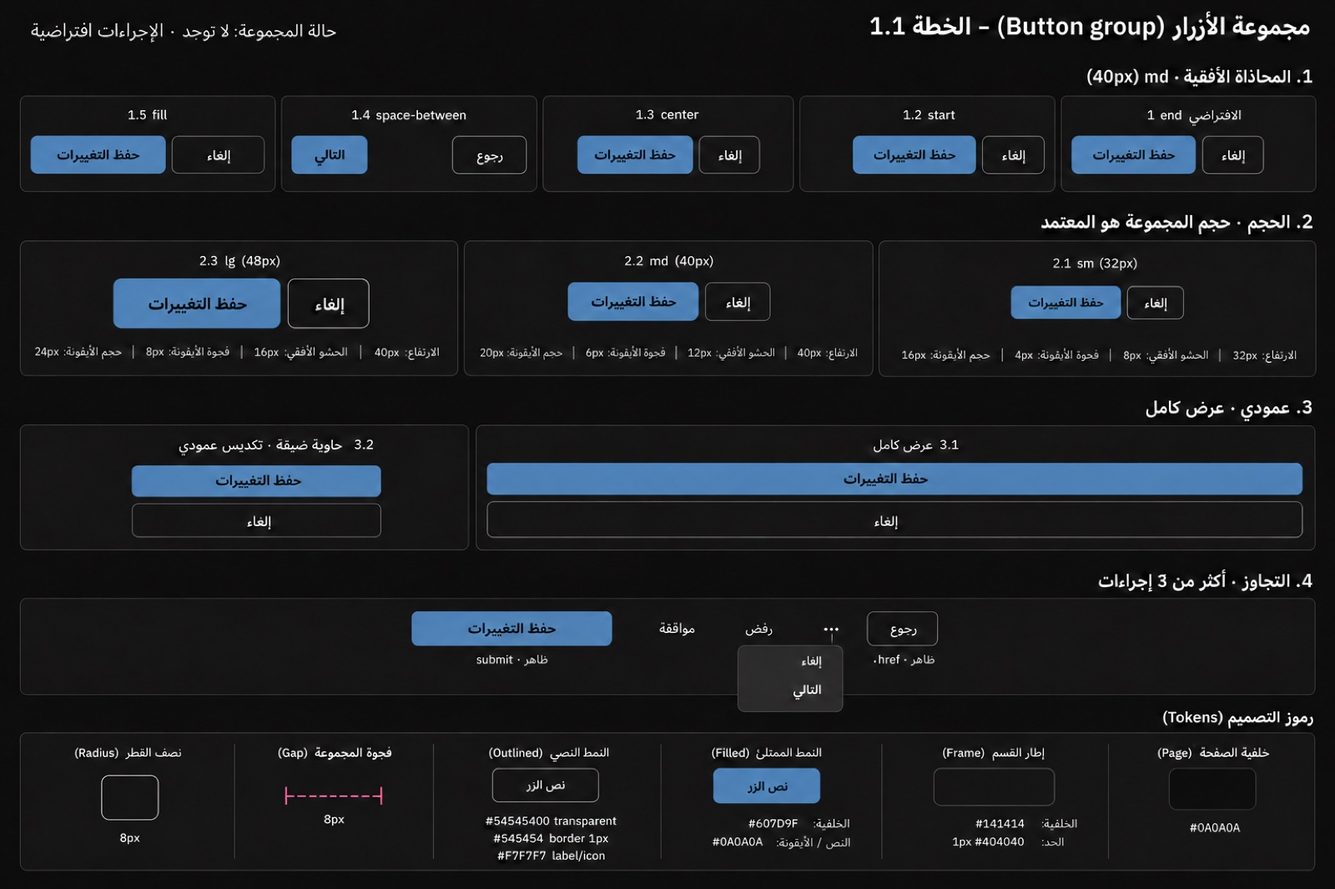
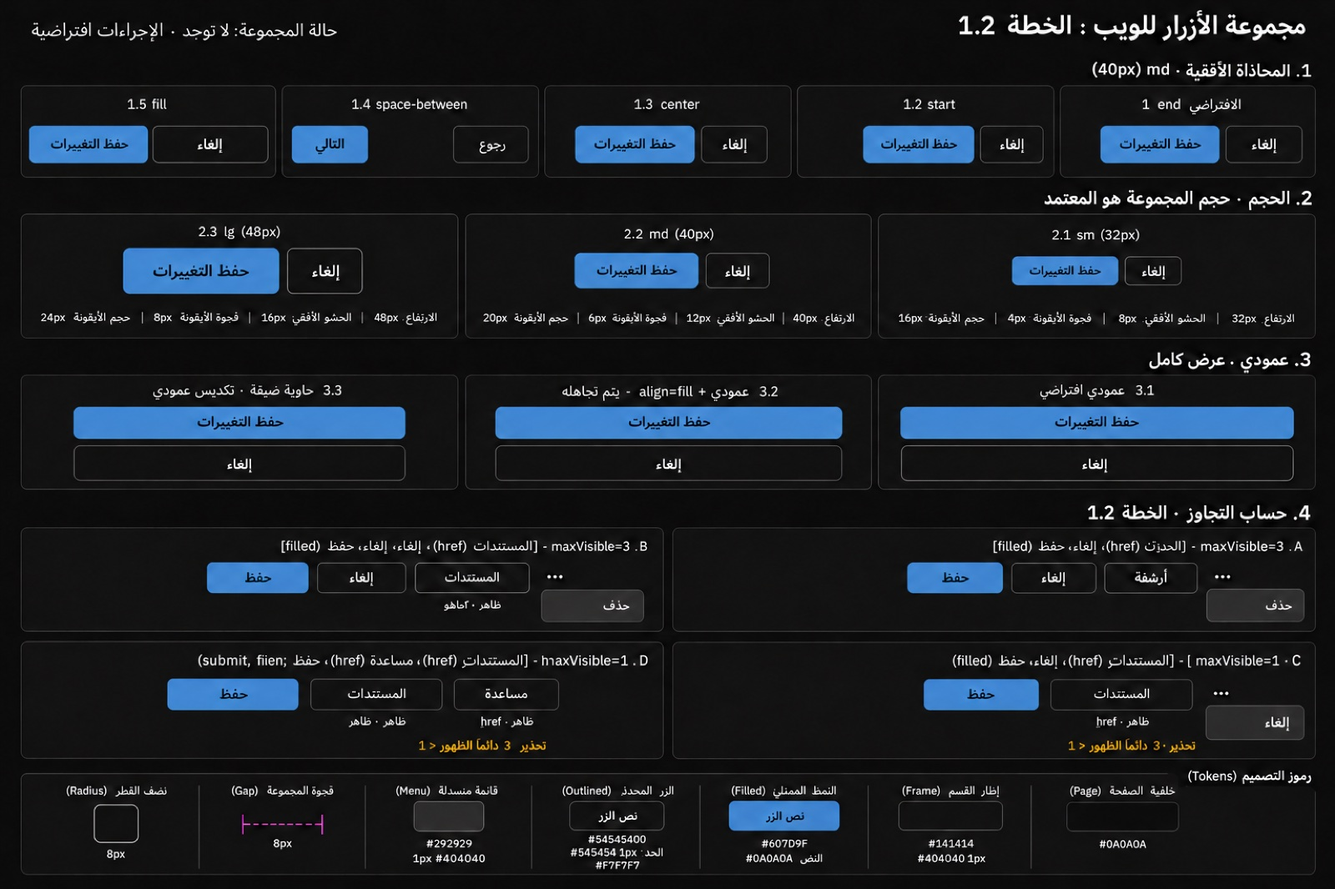
preview(button-group/web): plan 1.2 sheets — overflow counting, vertical fill ignored [codex]

diff --git a/biowave-ds/3-web-components/components/button-group/previews/README.md b/biowave-ds/3-web-components/components/button-group/previews/README.md
@@ -1,6 +1,6 @@
 # Button group preview
 
-These images are plan-check sketches for Button group 1.1. The component plan remains the source of truth. Button group adds layout only; every visible action uses Button or Icon button tokens.
+These images are plan-check sketches for Button group 1.2. The component plan remains the source of truth. Button group adds layout only; every visible action uses Button or Icon button tokens.
 
 ## Token sheet
 
@@ -42,19 +42,22 @@ These images are plan-check sketches for Button group 1.1. The component plan re
 ```text
 Use case: ui-mockup
 Asset type: flat web design-system specification sheet
-Primary request: Draw the Web Button group plan 1.1 as a precise plan-check sheet in light theme and English. Canvas is 1536 × 1024 px, no wider than 1600 px, with page background #F7F7F7. Use a clean grid with one column labelled “Group state: none · actions shown default”. Every specimen sits inside its own clearly visible full-width parent frame: #FFFFFF fill, 1px #DBDBDB outline, 8px radius. The invisible Button group container spans 100% of that frame so alignment is obvious.
+Input image: the existing light/English Button group 1.1 sheet is the visual starting point; redraw it as plan 1.2 rather than merely relabelling it.
+Primary request: Draw the Web Button group plan 1.2 as a precise plan-check sheet in light theme and English. Canvas is 1536 × 1024 px, no wider than 1600 px, with page background #F7F7F7. Use a compact, crisp grid headed “Web Button group plan 1.2” and “Group state: none · actions shown default”. Every specimen sits inside its own wide, clearly visible parent frame with #FFFFFF fill, 1px #DBDBDB outline, and 8px radius. The invisible Button group container spans 100% of each parent frame. The group has no state columns of its own.
 
-Typography: Inter with fallbacks system-ui, -apple-system, Segoe UI, Roboto, sans-serif; action weight 500 and letter-spacing 0px. sm labels are 13px/18px, md 14px/20px, lg 16px/24px. Captions use the same family and only these sizes.
+Typography and Button styling: Inter with fallbacks system-ui, -apple-system, Segoe UI, Roboto, sans-serif; action weight 500; letter-spacing 0px. sm labels are 13px/18px, md 14px/20px, lg 16px/24px. Captions use the same family and these sizes. All Buttons have 8px radius and 1px borders. Filled brand Buttons are #193351 with #FFFFFF labels/icons. Outlined neutral Buttons use transparent #54545400, 1px #BDBDBD border, and #0A0A0A labels/icons. Text neutral and the overflow Icon button use transparent #54545400 with #0A0A0A label/icon and no border. Button group gap is exactly 8px in both orientations. Open menus are #FFFFFF with 1px #DBDBDB outline, 8px radius, and no shadow.
 
-Global Button geometry: 8px radius and 1px borders. Filled brand buttons use #193351 with #FFFFFF labels/icons. Outlined neutral buttons use transparent #54545400, 1px #BDBDBD border, #0A0A0A labels/icons. Text neutral and the overflow Icon button use transparent #54545400 with #0A0A0A label/icon and no border. Button group gap is exactly 8px in every orientation.
+Lay out these four numbered sections in this exact order:
+1. “Horizontal align · md (40px)”. Use five wide parent frames whose left and right edges are unmistakable. “end · default” places outlined “Cancel” then filled “Save changes” at the far right inline end. “start” places the same pair at the far left. “center” centers the pair. These three must look clearly different because the unused space and frame edges remain visible. “space-between” places outlined “Back” at the far left and filled “Next” at the far right. “fill” has outlined “Cancel” and filled “Save changes” spanning the full row in two exactly equal-width halves. All are 40px high, 12px inline padding, 6px internal icon gap if used, and 20px icons.
+2. “Size · group wins”. Three parent frames show outlined “Cancel” then filled “Save changes”: sm = 32px high, 8px inline padding, 4px internal gap, 16px icon; md = 40px high, 12px inline padding, 6px internal gap, 20px icon; lg = 48px high, 16px inline padding, 8px internal gap, 24px icon. Print these exact values beside each specimen.
+3. “Vertical · full width”. Show three narrow parent frames. “default vertical” has filled “Save changes” on top and outlined “Cancel” below, each full width at normal md height 40px with an 8px vertical gap. “vertical + align=fill · ignored” must look exactly identical to default vertical: same full-width Buttons, same normal 40px height, no stretching and no equal-height column fill. “narrow parent · stacks vertically” shows the same two full-width Buttons and 8px gap; never draw partial wrapping on one line.
+4. “Overflow counting · plan 1.2”. Draw every row from the B1 examples table as its own wide specimen with its exact caption and an open menu where specified. The neutral borderless more_horiz trigger is first at the inline start and does not consume a visible slot.
+   a. Caption “maxVisible=3 · [Delete, Archive, Cancel, Save (filled)]”. Visible, in reading order: “Archive”, “Cancel”, “Save”. Put “Delete” alone in the open menu. Show the trigger.
+   b. Caption “maxVisible=3 · [Docs (href), Delete, Cancel, Save (filled)]”. Visible: outlined link action “Docs”, “Cancel”, filled “Save”. Put “Delete” alone in the open menu. Show the trigger. Mark Docs “href · visible”. Never show four visible actions.
+   c. Caption “maxVisible=1 · [Docs (href), Cancel, Save (filled)]”. Visible: “Docs” and filled “Save” only because both are always-visible. Put “Cancel” alone in the open menu. Show the trigger and a compact “warning · 2 always-visible > 1” note. Never show Cancel as a visible Button.
+   d. Caption “maxVisible=1 · [Docs (href), Help (href), Save (submit, filled)]”. Show all three Buttons “Docs”, “Help”, and filled “Save”; show no overflow trigger and no menu because every child is always-visible. Add “warning · 3 always-visible > 1”.
 
-Rows, in this exact order:
-1. “Horizontal align · md (40px)” with five separate parent frames: “end · default” has outlined “Cancel” then filled “Save changes” at the right inline end and doubles as the dialog-footer example; “start” has the same pair at the left; “center” has the same pair centered; “space-between” has outlined “Back” at the far left and filled “Next” at the far right; “fill” has outlined “Cancel” and filled “Save changes” sharing the full width equally. All md actions are 40px high with 12px inline padding, 6px internal icon gap if an icon exists, and 20px icons.
-2. “Size · group wins” with three parent frames and the same outlined “Cancel” then filled “Save changes”: sm = 32px high, 8px inline padding, 4px internal gap, 16px icon; md = 40px, 12px, 6px, 20px; lg = 48px, 16px, 8px, 24px. Put the exact size values in small callouts beside each row.
-3. “Vertical · full width” with one narrow parent frame: filled “Save changes” on top and outlined “Cancel” below, each full width, exact 8px vertical gap. Beside it show “Narrow parent · stacks vertically” with the same two actions full width to communicate the planned horizontal-to-vertical responsive stack; do not draw partial wrapping on one line.
-4. “Overflow · more than 3 actions” in a wide parent frame. Keep an outlined link action “Back” visible at the start and a filled submit action “Save changes” visible at the end. Place the borderless neutral more_horiz Icon button first at the start of the ordinary actions, then two visible ordinary text actions “Reject” and “Approve”; show an open overflow menu anchored to more_horiz containing the remaining actions “Cancel” and “Next”. Menu is #FFFFFF with 1px #DBDBDB outline and 8px radius, no shadow. Label the link and submit actions “href · visible” and “submit · visible”.
-
-Add a compact token legend with swatches and measurement callouts adjacent to the styled parts: page #F7F7F7; frame #FFFFFF / #DBDBDB 1px; filled #193351 / #FFFFFF; outlined transparent / #BDBDBD 1px / #0A0A0A; group gap 8px; radius 8px. Use exact strings and values verbatim. Draw no group-level fill, border, or state. No shadows, gradients, glow, photos, device frames, logos, decorations, or invented interaction states.
+Add a compact token legend with swatches and measurement callouts adjacent to the styled parts: page #F7F7F7; frame #FFFFFF / #DBDBDB 1px; menu #FFFFFF / #DBDBDB 1px; filled #193351 / #FFFFFF; outlined transparent #54545400 / #BDBDBD 1px / #0A0A0A; group gap 8px; radius 8px. Use every quoted string and value verbatim. Draw no group-level fill, border, or state. No shadows, gradients, glow, photos, device frames, logos, decorations, watermarks, or invented interaction states.
 ```
 
 ## Prompt — `button-group-dark-ar.jpg`
@@ -62,28 +65,31 @@ Add a compact token legend with swatches and measurement callouts adjacent to th
 ```text
 Use case: ui-mockup
 Asset type: flat web design-system specification sheet
-Primary request: Draw the Web Button group plan 1.1 as a precise plan-check sheet in dark theme and Arabic. Canvas is 1536 × 1024 px, no wider than 1600 px, with page background #0A0A0A. Entire layout direction is right-to-left. Use a clean grid with one column labelled “حالة المجموعة: لا توجد · الإجراءات افتراضية”. Every specimen sits inside its own clearly visible full-width parent frame: #141414 fill, 1px #404040 outline, 8px radius. The invisible Button group container spans 100% of that frame so alignment is obvious.
+Input image: the existing dark/Arabic Button group 1.1 sheet is the visual starting point; redraw it as plan 1.2 rather than merely relabelling it.
+Primary request: Draw the Web Button group plan 1.2 as a precise plan-check sheet in dark theme and Arabic. Canvas is 1536 × 1024 px, no wider than 1600 px, with page background #0A0A0A. Mirror the entire layout right-to-left. Use a compact, crisp grid headed “مجموعة الأزرار للويب · الخطة 1.2” and “حالة المجموعة: لا توجد · الإجراءات افتراضية”. Every specimen sits inside its own wide, clearly visible parent frame with #141414 fill, 1px #404040 outline, and 8px radius. The invisible Button group container spans 100% of each parent frame. The group has no state columns of its own.
 
-Typography: IBM Plex Sans Arabic with fallbacks Noto Sans Arabic, Tahoma, sans-serif; action weight 500 and letter-spacing 0px. sm labels are 13px/20px, md 14px/22px, lg 16px/26px. Captions use the same family and only these sizes.
+Typography and Button styling: IBM Plex Sans Arabic with fallbacks Noto Sans Arabic, Tahoma, sans-serif; action weight 500; letter-spacing 0px. sm labels are 13px/20px, md 14px/22px, lg 16px/26px. Captions use the same family and these sizes. All Buttons have 8px radius and 1px borders. Filled brand Buttons are #607D9F with #0A0A0A labels/icons. Outlined neutral Buttons use transparent #54545400, 1px #545454 border, and #F7F7F7 labels/icons. Text neutral and the overflow Icon button use transparent #54545400 with #F7F7F7 label/icon and no border. Button group gap is exactly 8px in both orientations. Open menus are #292929 with 1px #404040 outline, 8px radius, and no shadow.
 
-Global Button geometry: 8px radius and 1px borders. Filled brand buttons use #607D9F with #0A0A0A labels/icons. Outlined neutral buttons use transparent #54545400, 1px #545454 border, #F7F7F7 labels/icons. Text neutral and the overflow Icon button use transparent #54545400 with #F7F7F7 label/icon and no border. Button group gap is exactly 8px in every orientation.
+Lay out these four numbered sections in this exact order, with connected Arabic text and right-to-left reading order:
+1. “المحاذاة الأفقية · md (40px)”. Use five wide parent frames whose left and right edges are unmistakable. “end · الافتراضي” places outlined “إلغاء” then filled “حفظ التغييرات” at the far left inline end. “start” places the pair at the far right. “center” centers it. These three must look clearly different because the unused space and frame edges remain visible. “space-between” places outlined “رجوع” at the far right and filled “التالي” at the far left. “fill” has outlined “إلغاء” and filled “حفظ التغييرات” spanning the full row in two exactly equal-width halves. All are 40px high, 12px inline padding, 6px internal icon gap if used, and 20px icons.
+2. “الحجم · حجم المجموعة هو المعتمد”. Three parent frames show outlined “إلغاء” then filled “حفظ التغييرات”: sm = 32px high, 8px inline padding, 4px internal gap, 16px icon; md = 40px high, 12px inline padding, 6px internal gap, 20px icon; lg = 48px high, 16px inline padding, 8px internal gap, 24px icon. Print these exact values beside each specimen.
+3. “عمودي · عرض كامل”. Show three narrow parent frames. “عمودي افتراضي” has filled “حفظ التغييرات” on top and outlined “إلغاء” below, each full width at normal md height 40px with an 8px vertical gap. “عمودي + align=fill · يتم تجاهله” must look exactly identical to default vertical: same full-width Buttons, same normal 40px height, no stretching and no equal-height column fill. “حاوية ضيقة · تكديس عمودي” shows the same two full-width Buttons and 8px gap; never draw partial wrapping on one line.
+4. “حساب التجاوز · الخطة 1.2”. Draw every row from the B1 examples table as its own wide specimen with its caption and an open menu where specified. The neutral borderless more_horiz trigger is first at the right inline start, never mirrors, and does not consume a visible slot.
+   a. Caption “maxVisible=3 · [حذف، أرشفة، إلغاء، حفظ (filled)]”. Visible, in RTL reading order: “أرشفة”، “إلغاء”، “حفظ”. Put “حذف” alone in the open menu. Show the trigger.
+   b. Caption “maxVisible=3 · [المستندات (href)، حذف، إلغاء، حفظ (filled)]”. Visible: outlined link action “المستندات”، “إلغاء”، filled “حفظ”. Put “حذف” alone in the open menu. Show the trigger. Mark Docs “href · ظاهر”. Never show four visible actions.
+   c. Caption “maxVisible=1 · [المستندات (href)، إلغاء، حفظ (filled)]”. Visible: “المستندات” and filled “حفظ” only because both are always-visible. Put “إلغاء” alone in the open menu. Show the trigger and a compact “تحذير · 2 دائمَا الظهور > 1” note. Never show Cancel as a visible Button.
+   d. Caption “maxVisible=1 · [المستندات (href)، مساعدة (href)، حفظ (submit, filled)]”. Show all three Buttons “المستندات”، “مساعدة”، and filled “حفظ”; show no overflow trigger and no menu because every child is always-visible. Add “تحذير · 3 دائمَا الظهور > 1”.
 
-Rows, in this exact order and mirrored right-to-left:
-1. “المحاذاة الأفقية · md (40px)” with five separate parent frames: “end · الافتراضي” places outlined “إلغاء” then filled “حفظ التغييرات” at the left inline end and doubles as the dialog-footer example; “start” places the same pair at the right; “center” centers the same pair; “space-between” places outlined “رجوع” at the far right and filled “التالي” at the far left; “fill” gives outlined “إلغاء” and filled “حفظ التغييرات” equal full-width shares. The primary is at the inline end, which is left in RTL. All md actions are 40px high with 12px inline padding, 6px internal icon gap if an icon exists, and 20px icons.
-2. “الحجم · حجم المجموعة هو المعتمد” with three parent frames and the same outlined “إلغاء” then filled “حفظ التغييرات”: sm = 32px high, 8px inline padding, 4px internal gap, 16px icon; md = 40px, 12px, 6px, 20px; lg = 48px, 16px, 8px, 24px. Put the exact size values in small callouts beside each row.
-3. “عمودي · عرض كامل” with one narrow parent frame: filled “حفظ التغييرات” on top and outlined “إلغاء” below, each full width, exact 8px vertical gap. Beside it show “حاوية ضيقة · تكديس عمودي” with the same two actions full width to communicate the planned horizontal-to-vertical responsive stack; do not draw partial wrapping on one line.
-4. “التجاوز · أكثر من 3 إجراءات” in a wide parent frame. Keep an outlined link action “رجوع” visible at the right start and a filled submit action “حفظ التغييرات” visible at the left end. Place the borderless neutral more_horiz Icon button first at the right start of the ordinary actions; the more_horiz glyph does not mirror. Then show two visible ordinary text actions “رفض” and “موافقة”; show an open overflow menu anchored to more_horiz containing the remaining actions “إلغاء” and “التالي”. Menu is #292929 with 1px #404040 outline and 8px radius, no shadow. Label the link and submit actions “href · ظاهر” and “submit · ظاهر”.
-
-Add a compact RTL token legend with swatches and measurement callouts adjacent to the styled parts: page #0A0A0A; frame #141414 / #404040 1px; filled #607D9F / #0A0A0A; outlined transparent / #545454 1px / #F7F7F7; group gap 8px; radius 8px. Use Arabic action strings exactly, connected letters, and right-aligned RTL text. Draw no group-level fill, border, or state. No shadows, gradients, glow, photos, device frames, logos, decorations, or invented interaction states.
+Add a compact RTL token legend with swatches and measurement callouts adjacent to the styled parts: page #0A0A0A; frame #141414 / #404040 1px; menu #292929 / #404040 1px; filled #607D9F / #0A0A0A; outlined transparent #54545400 / #545454 1px / #F7F7F7; group gap 8px; radius 8px. Use Arabic action strings exactly, connected letters, and right-aligned RTL text. Keep filled primary actions at inline end, which is left in RTL. Draw no group-level fill, border, or state. No shadows, gradients, glow, photos, device frames, logos, decorations, watermarks, or invented interaction states.
 ```
 
 ## Checks
 
 | Image | Result |
 |---|---|
-| `button-group-light-en.jpg` | ⚠ Correct light tokens, English strings, parent-width alignment specimens, sm/md/lg sizing, 8px gaps, vertical stack, `more_horiz`, visible `href` / submit actions, and open overflow menu. After two retries, the `fill` specimen's two children remain slightly unequal in rendered width; the plan requires equal `flex: 1 1 0` shares. |
-| `button-group-dark-ar.jpg` | ⚠ Correct dark tokens, connected Arabic strings, RTL mirroring (`end` left, `start` right), sm/md/lg sizing, 8px gaps, vertical stack, non-mirrored `more_horiz`, visible `href` / submit actions, and open overflow menu. After two retries, the `fill` specimen's two children remain slightly unequal in rendered width; the plan requires equal `flex: 1 1 0` shares. |
+| `button-group-light-en.jpg` | ⚠ Matches the light tokens, English strings, clearly separated `start` / `center` / `end`, sm/md/lg sizes, normal-height vertical and ignored vertical `align="fill"`, and all four overflow-counting outcomes without extra visible actions. After two retries, the horizontal `fill` pair spans its row but remains slightly unequal in rendered width; the plan requires exact equal shares. |
+| `button-group-dark-ar.jpg` | ⚠ Matches the dark tokens, connected Arabic action labels, RTL mirroring (`end` left, `start` right), non-mirrored `more_horiz`, sm/md/lg sizes, normal-height vertical and ignored vertical `align="fill"`, and the four overflow menu outcomes without extra visible actions. After two retries, the horizontal `fill` pair remains slightly unequal; mixed Arabic/English captions retain minor glyph/order artifacts, and the `maxVisible=1` Docs/Cancel/Save warning renders `3` instead of `2`. |
 
 ## Questions
 
-None. All token values resolved; the two ⚠ items above are image-rendering differences, not plan questions.
+None. All displayed token values resolved; the ⚠ items are generated-image differences, not plan questions.

diff --git a/biowave-ds/_workflow/runs/2026-10-21-button-group-web/07-preview-codex.prompt.md b/biowave-ds/_workflow/runs/2026-10-21-button-group-web/07-preview-codex.prompt.md
@@ -1,0 +1,29 @@
+# Preview step — button-group / web
+
+Project root: /Users/hassansaid/Downloads/Biowave Design System-button-group-web/biowave-ds (git worktree on branch `ds/button-group-web`; work only here). Project rules: AGENTS.md. Config: _workflow/config.json.
+
+## Inputs (read only these)
+A2, A4, A5, A6, B1 (the new "Overflow counting" rule and its examples table), B2, B3 and B5 of 3-web-components/components/button-group/button-group.md (no tokens.json of its own); B3 of 3-web-components/components/button/button.md and 3-web-components/components/button/button.tokens.json; resolved values in 2-foundations/dist/tokens.json (theme.light, theme.dark, platform.web, base). The 1.1 sheets in the previews folder are the starting point.
+
+## Outputs (write only these)
+Replace the preview images and update README.md (token sheet, prompts, check results) in 3-web-components/components/button-group/previews/. One CHANGELOG.md line.
+
+## This step
+Redraw the web Button group sheets for plan 1.2. Keep the 1.1 sections (align row inside visible full-width parent frames, sizes, vertical, overflow), and change:
+- **Overflow counting (new, B1):** draw each row of the B1 examples table as its own specimen with a caption, e.g. `maxVisible=1`, `[Docs (href), Cancel, Save (filled)]` → Docs and Save visible, `more` trigger, Cancel in the open menu; `maxVisible=3`, `[Docs (href), Delete, Cancel, Save]` → Docs, Cancel, Save visible, Delete in the menu; always-visible alone over the limit → all visible, no trigger. Never more visible actions than the rule allows.
+- **Vertical + `align="fill"` (#12):** a vertical group with `align="fill"` looks exactly like default vertical — full-width buttons at their normal height (`align` is ignored in vertical).
+- `fill` (horizontal): the two children must be exactly equal width.
+- Make `end`, `start` and `center` clearly different: wide parent frames with the frame edge visible.
+- Dark/ar image: Arabic labels, RTL mirroring as B5.
+Note any value you could not render exactly with ⚠ in README.md.
+
+## Notes from the user
+none
+
+## Checks to run
+none
+
+## Preview images (preview step only)
+Folder: 3-web-components/components/button-group/previews. One image per entry: light + en → `button-group-light-en.jpg`; dark + ar → `button-group-dark-ar.jpg`. Max width: 1600 px. JPEG quality: 85.
+
+Do not commit, push or switch branches. End with the Handoff block.

diff --git a/biowave-ds/_workflow/runs/2026-10-21-button-group-web/run.md b/biowave-ds/_workflow/runs/2026-10-21-button-group-web/run.md
@@ -20,6 +20,7 @@ Orchestrated from a Cowork session (Phase 1 run; gates pre-approved by the user 
 | 04 | fix | codex | done (5.7 min): Fix round 1 — #1 container `display: flex` + `inlineSize: 100%`, #2–#4, #7, #9, #10, Executor half of #8, raised timeout removed; C8 entry; Codex: test:web ×3 91/91 | docs:check ✓ · typecheck ✓ · test:web ✓ 91/91 in 8.6 s (orchestrator) | see git log | `04-fix-codex.prompt.md` |
 | 05 | review | claude (wf-reviewer subagent) | done · **Changes requested** — Round 2: R1 #1–#11 fixed (Chromium, 800 px parent: all five `align` values correct in light/en and mirrored in dark/ar; `fill` 397 + 8 + 395 px; vertical full width). New: #12 🟡 vertical + `align="fill"` collapses children (`flex: 1 1 0`, group 10 px tall) — Executor; #13 🟢 always-visible `href`/submit children don't count toward `maxVisible`, primary can land in the menu — Planner; #14 🟢 `fill` test reads source text — Executor. Plan → Open, Code → Changes requested | docs:check ✓ · typecheck ✓ · test:web ✓ 91/91 ×2 | see git log | `05-review-claude.prompt.md` |
 | 06 | plan | claude (wf-planner subagent) | done · plan 1.2: #13 B1 "Overflow counting" — primary (`filled`), `href`/submit and non-Button children always visible and use slots first; the rest fill what's left, least important into the menu first; limit exceeded only when always-visible alone exceed it (dev warning); trigger takes no slot. A4.4 rule in all three Part A files (guidelines 1.1). #12 vertical ignores `align` (B2/C3). C7 AC-12…AC-14 + Fix round 2 task list (#12, #13, #14). Plan Finished. Planner choice to confirm: non-Button children count as always-visible | contract web/tablet/mobile ✓ · docs:check ✓ | see git log | `06-plan-claude.prompt.md` |
+| 07 | preview | codex | files written, no Handoff (13.6 min): Codex hit its usage limit right after writing the sheets (dispatcher: failed). Accepted as partial (not blocking): light/en draws all four B1 overflow-counting examples and vertical + `align="fill"` ignored; ⚠ dark/ar example C warning says 3 always-visible (should be 2), example D caption typo; `fill` children still slightly unequal | previews ✓ | see git log | `07-preview-codex.prompt.md` |
 
 ## Gates
 

diff --git a/biowave-ds/CHANGELOG.md b/biowave-ds/CHANGELOG.md
@@ -2,6 +2,10 @@
 
 Every change to the design system is logged here **in the same task**, newest first (AGENTS.md rule 9). Format: [Keep a Changelog](https://keepachangelog.com); versions follow SemVer per package. Component detail also goes to that component's Part F.
 
+## [Preview — Web Button group 1.2] — 2026-10-21
+### Changed
+- Redrew the light/English and dark/Arabic RTL plan-check sheets with the four B1 overflow-counting examples, normal-height vertical `align="fill"`, equal-share horizontal `fill` intent, visibly distinct alignment frames, and resolved token callouts; the preview README records the remaining generated-image differences after two retries per image.
+
 ## [Plan — Web Button group 1.2: review round 2 Planner item #13] — 2026-10-21
 ### Changed
 - Button group (web) re-plan, version **1.2** (plan 1.2) in `3-web-components/components/button-group/button-group.md`: #13 B1 **Overflow counting** — always-visible children (`filled` primary, `href`, `type="submit"`, not Button/IconButton) use up the `maxVisible` slots first, the other children fill the slots left with the least important going into the menu first, and the limit is exceeded (dev warning) only when the always-visible children alone exceed it; examples table, B9/C6 tests (`maxVisible={1}` with `[Docs href, Cancel, Save (filled)]` → Docs and Save visible, Cancel in the menu; always-visible children alone over the limit), C3. B2/C3 vertical ignores `align`. C7 AC-12–14 + Fix round 2 task list: #12 (vertical + `align="fill"` test with non-zero heights), #13, #14 (`fill` asserted from the rendered style). Part F0/F1/F2 updated.
